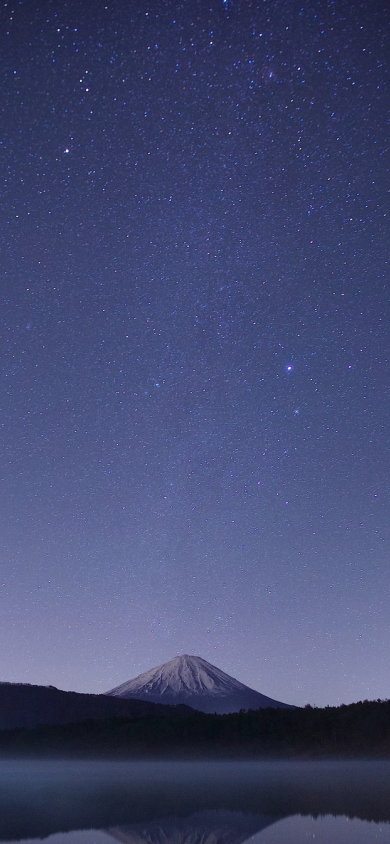
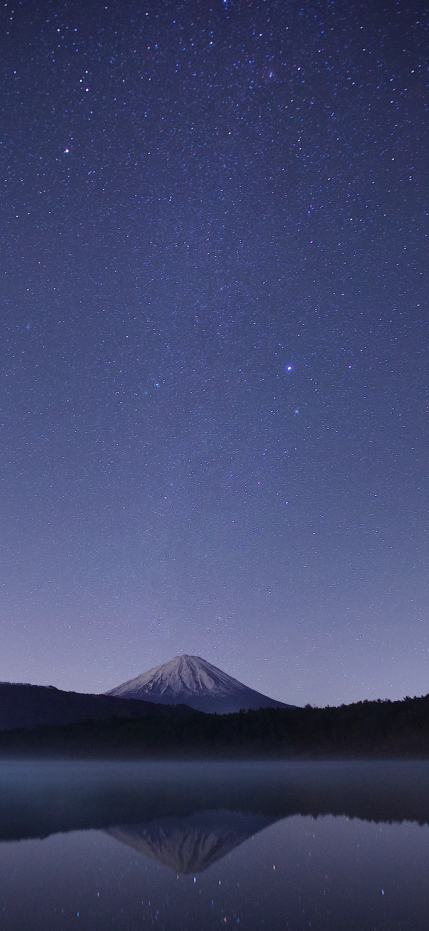
date

diff --git a/src/LastUpdate.js b/src/LastUpdate.js
@@ -1,6 +1,37 @@
 import React from "react";
 export default function LastUpdate(props) {
-  let day = props.information;
+  let hour = props.information.getHours();
 
-  return <div>`Last update: {day}`</div>;
+  let minute = props.information.getMinutes();
+
+  let days = [
+    "Sunday",
+    "Monday",
+    "Tuesday",
+    "Wednesday",
+    "Thursday",
+    "Friday",
+    "Saturday",
+  ];
+  let day = days[props.information.getDay()];
+
+  let date = props.information.getDate();
+
+  let months = [
+    "january",
+    "february",
+    "march",
+    "april",
+    "may",
+    "june",
+    "july",
+    "august",
+    "september",
+    "october",
+    "november",
+    "december",
+  ];
+  let month = months[props.information.getMonth()];
+
+  return `Last update: ${hour}:${minute}, ${day}, ${date} ${month}`;
 }

diff --git a/src/Weather.js b/src/Weather.js
@@ -8,9 +8,10 @@ export default function Weather() {
   let [city, setCity] = useState("Tokyo");
 
   function showWeather(response) {
+    console.log(new Date(response.data.daily[0].time * 1000));
     setWeather({
       ready: true,
-      date: Date(response.data.daily[0].time * 1000),
+      date: new Date(response.data.daily[0].time * 1000),
       name: response.data.city,
       temperature: Math.round(response.data.daily[0].temperature.day),
       minTemp: Math.round(response.data.daily[0].temperature.minimum),

diff --git a/src/App.test.js b/src/App.test.js
@@ -1,7 +1,7 @@
-import { render, screen } from '@testing-library/react';
-import App from './App';
+import { render, screen } from "@testing-library/react";
+import App from "./App";
 
-test('renders learn react link', () => {
+test("renders learn react link", () => {
   render(<App />);
   const linkElement = screen.getByText(/learn react/i);
   expect(linkElement).toBeInTheDocument();

diff --git a/src/App.css b/src/App.css
@@ -1,6 +1,6 @@
 .App {
   background-image: url("./image/Mountain.png");
-  width: 390px;
+  width: 429px;
   height: 800px;
   margin: 0 auto;
 }
